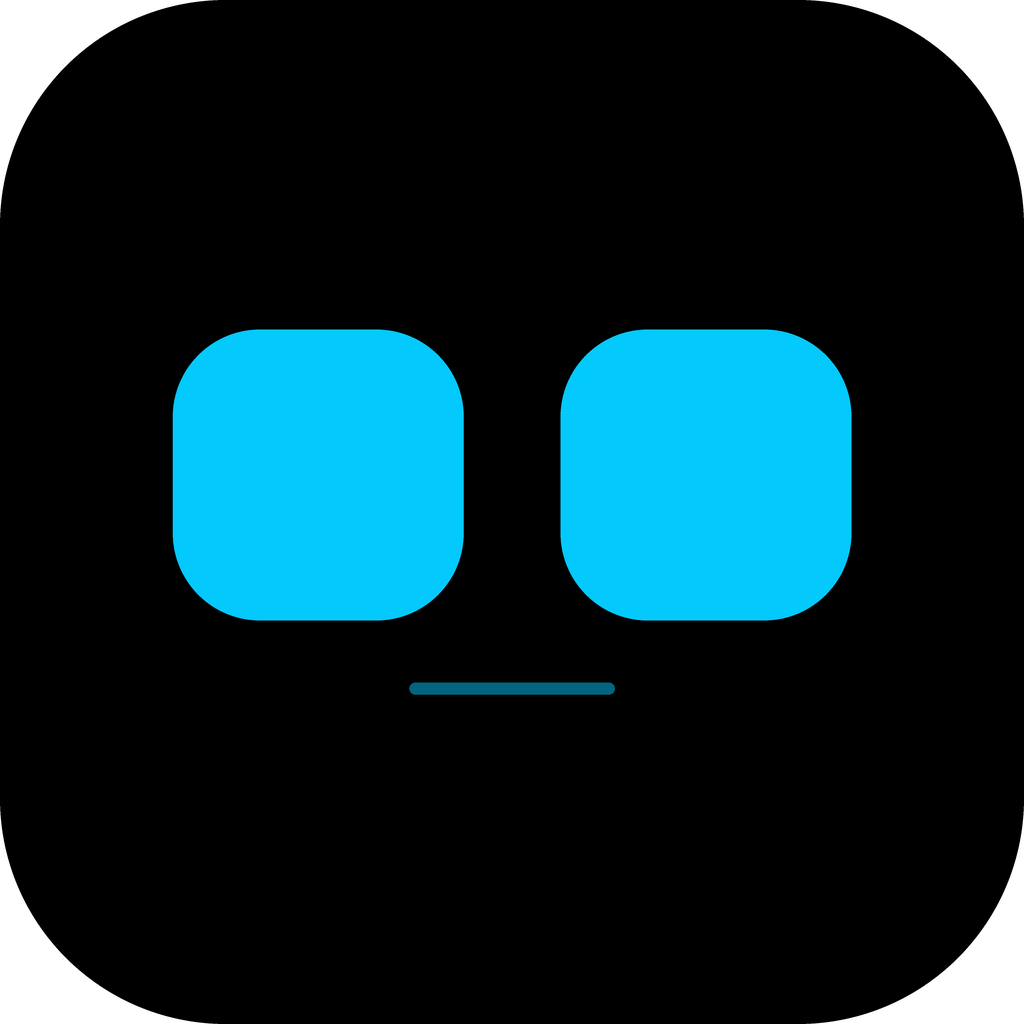
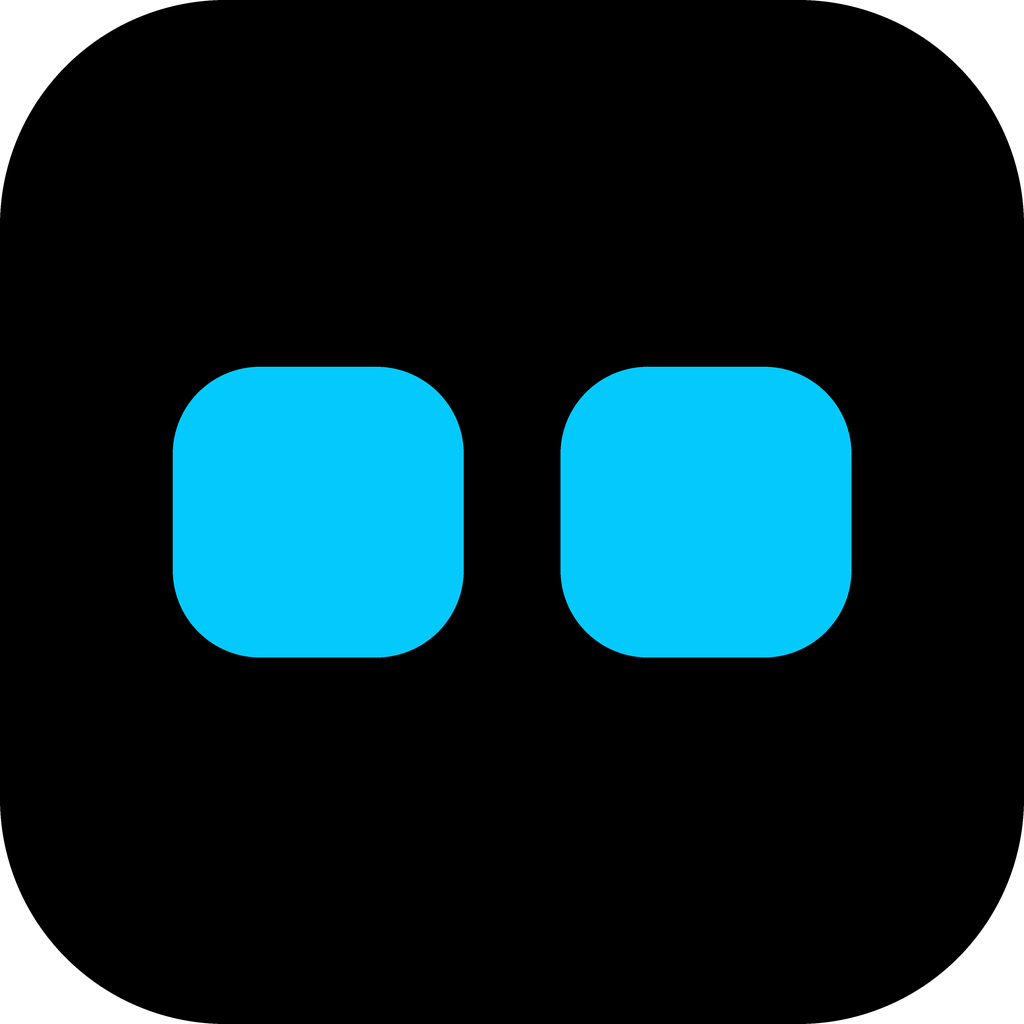
Identidade: o ícone fica só com os olhos da Atlas, sem a boca

diff --git a/fontes/github/.github/profile/README.md b/fontes/github/.github/profile/README.md
@@ -1,6 +1,6 @@
 <div align="center">
 
-<img src="atlas.png" width="140" alt="O rosto da Atlas: dois olhos ciano quadrados e a boca neutra" />
+<img src="atlas.png" width="140" alt="Os olhos da Atlas: dois olhos ciano quadrados" />
 
 # 🤖 SETREM Robot
 
